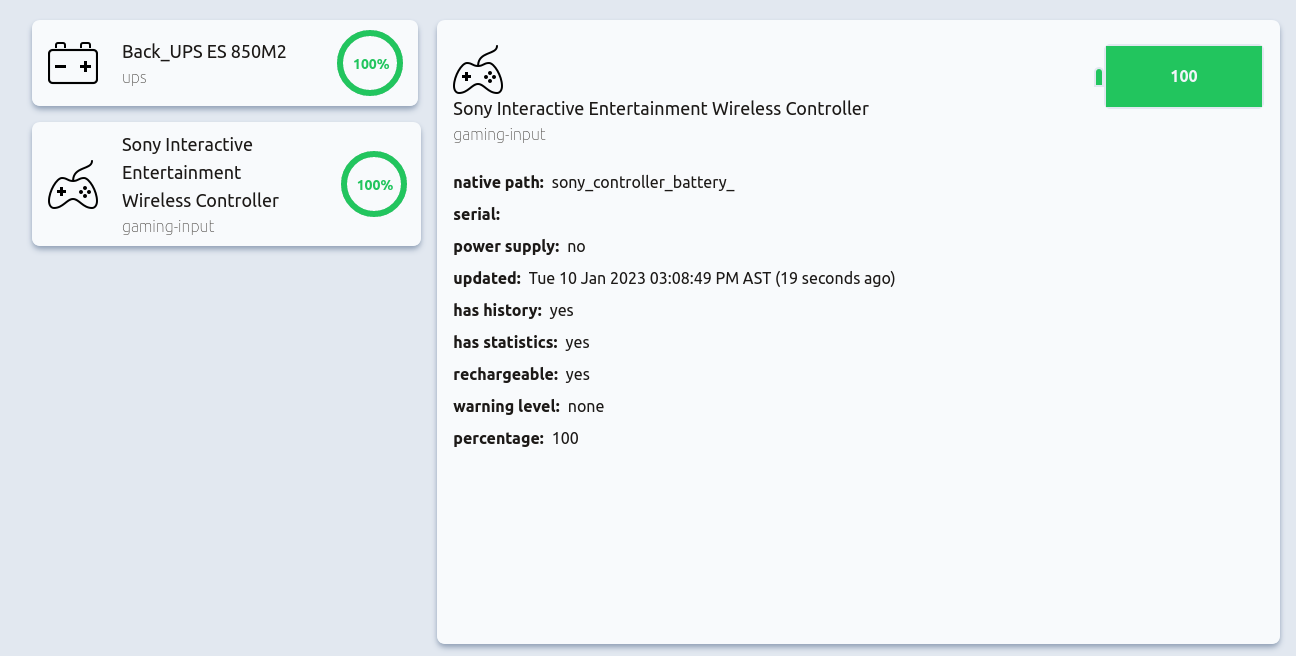
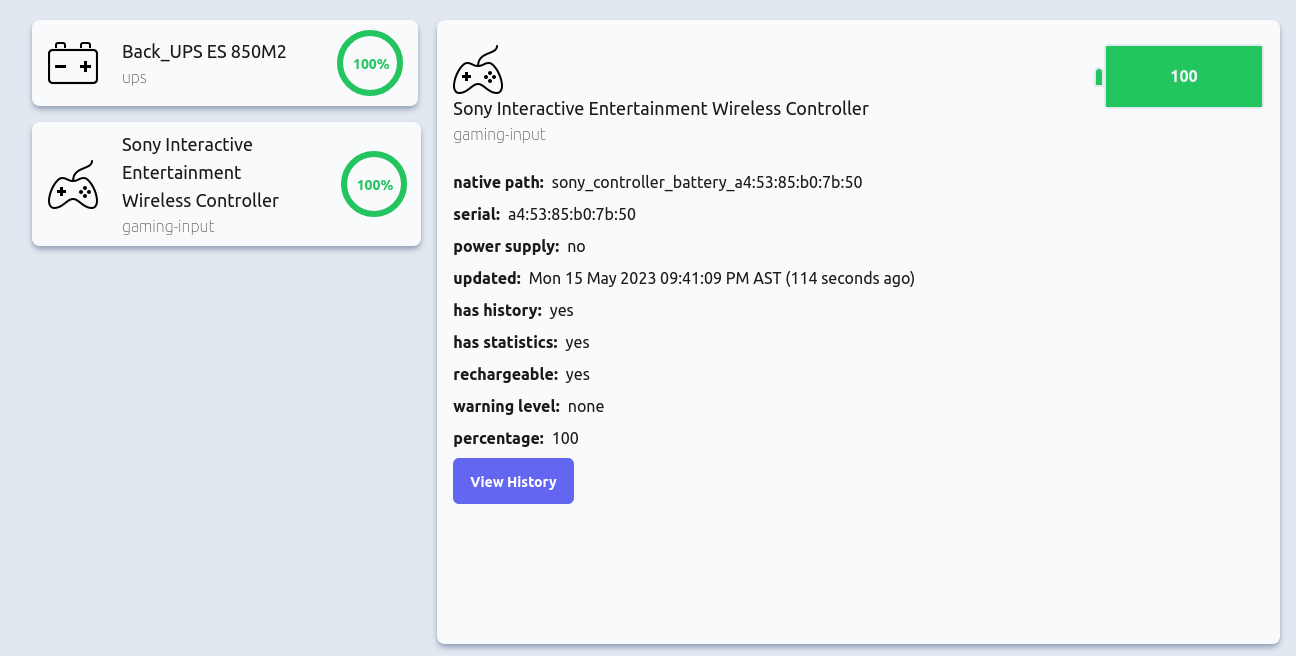
chore:update readme with changes from history feat

diff --git a/README.md b/README.md
@@ -68,6 +68,12 @@ After launching the client and the server, the application should be accessible 
     <i>Mobile view of the device detail section</i>
 </p>
 
+<p>
+    <img src="preview/controller_history.png" width=60%>
+    <br/>
+    <i>Desktop view showing the battery level history of gaming controller device </i>
+</p>
+
 ## 📟 Install as a systemd service
 
 A sample system template is provided at the root of the project that can be used to install the app as a systemd service to run in the background and at startup.
